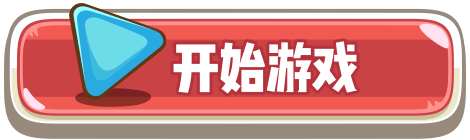
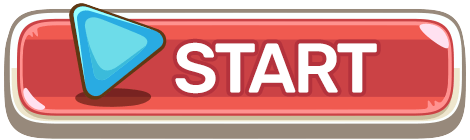
change china image by english image

diff --git a/game/static/single-game/tower_game/index.html b/game/static/single-game/tower_game/index.html
@@ -21,7 +21,7 @@
                             <div class="percent"></div>
                         </div>
                     </div>
-                    <div class="text ">در حال بارگیری</div>
+                    <div class="text ">Loading ... </div>
                 </div>
             </div>
 
